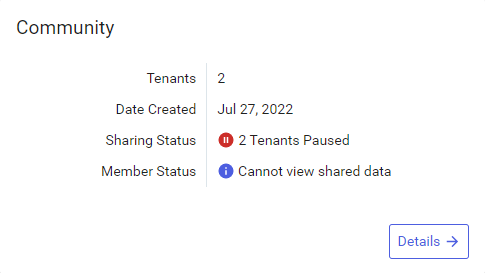
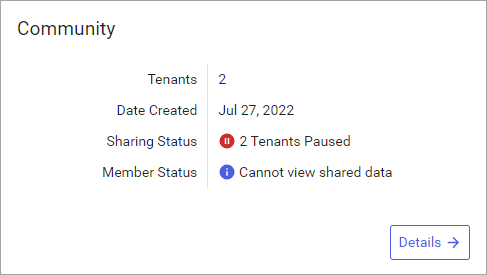
adding border

diff --git a/content/communities/community-pause-sharing.md b/content/communities/community-pause-sharing.md
@@ -54,7 +54,7 @@ From the `Communities` page, each tile displays if there is one or more tenant i
 
 The `Community Details` page **Tenants** tab displays:
 
-1. The total number of tenants that have paused data sharing within the community.
+1. The total number of tenants that have pau`sed data sharing within the community.
 
 1. The sharing status for each tenant, listed within the **Status** column.
 
